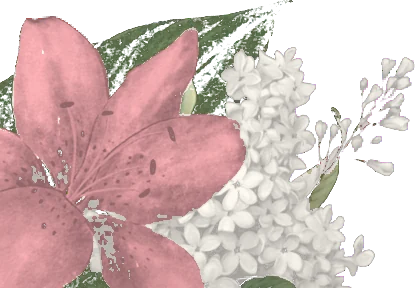
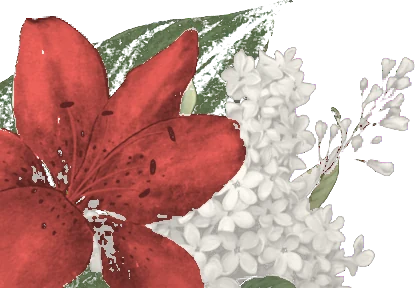
Rosa claro trocado pelo tom do selo

diff --git a/index.html b/index.html
@@ -10,8 +10,8 @@
 <meta property="og:title" content="Isis Paranho Viana · Formatura em Medicina">
 <meta property="og:description" content="Você é meu convidado especial. Toque para abrir o convite.">
 <meta property="og:url" content="https://isisparanho-debug.github.io/formatura/">
-<meta property="og:image" content="https://isisparanho-debug.github.io/formatura/og9.jpg">
-<meta property="og:image:secure_url" content="https://isisparanho-debug.github.io/formatura/og9.jpg">
+<meta property="og:image" content="https://isisparanho-debug.github.io/formatura/og10.jpg">
+<meta property="og:image:secure_url" content="https://isisparanho-debug.github.io/formatura/og10.jpg">
 <meta property="og:image:type" content="image/jpeg">
 <meta property="og:locale" content="pt_BR">
 <meta property="og:image:width" content="1200"><meta property="og:image:height" content="630">
